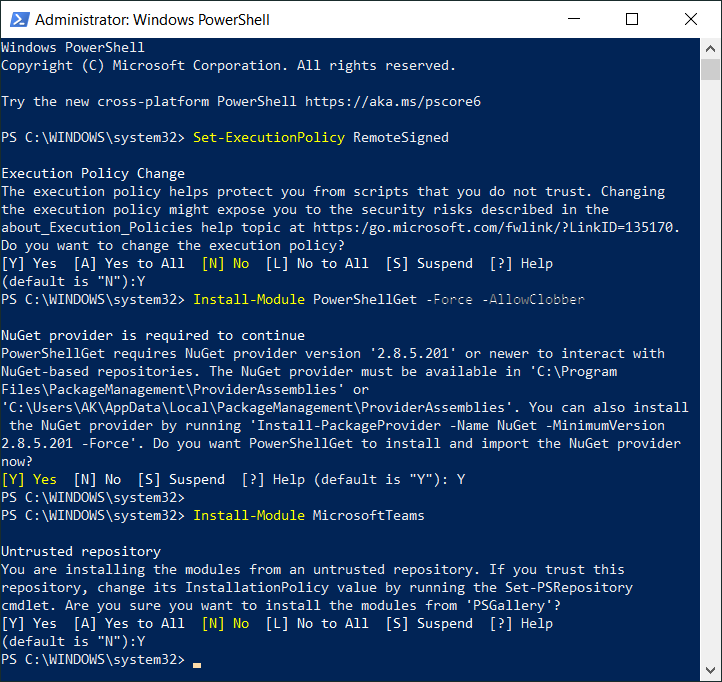
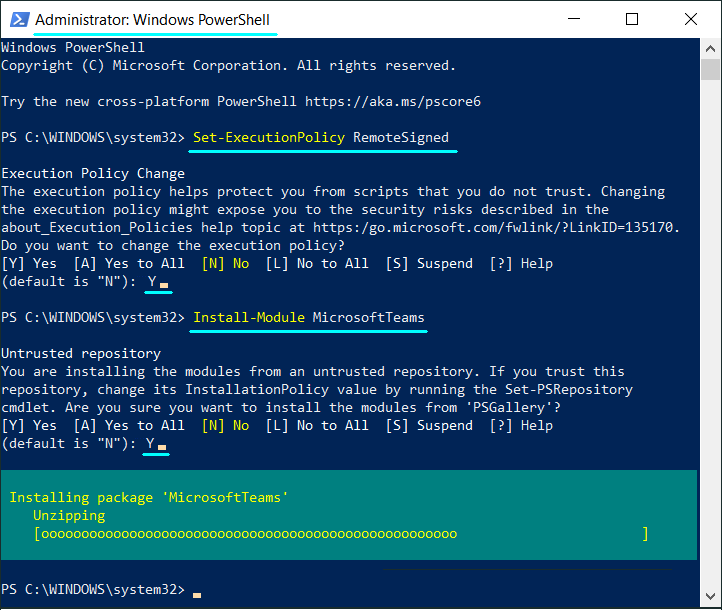
PowerShell-InstallingMicrosoftTeams

diff --git a/_posts/2020-11-24-PowerShell-bibl-MicrosoftTeams.md b/_posts/2020-11-24-PowerShell-bibl-MicrosoftTeams.md
@@ -1,0 +1,50 @@
+---
+layout: post
+title:  "Instalowanie modułu Teams PowerShell"
+date:   2020-11-24 10:00:00 +0100
+categories: Programowanie
+---
+
+Szczegółowy opis instalacji modułu Teams PowerShell na podstawie  
+<https://docs.microsoft.com/en-us/microsoftteams/teams-powershell-install>
+
+"  
+... Te instrukcje działają na platformach Azure Cloud Shell, Linux, macOS i Windows.  
+... Domyślnie Galeria programu PowerShell (PSGallery) nie jest skonfigurowana jako zaufane repozytorium ... Odpowiedz "Yes", aby kontynuować instalację...  
+"
+
+![Win_X.png]({{ site.baseurl }}/assets/img/Win_X.png "Win_X.png"){:style="float:right;width:35%;"} 
+
+### Szczegółowa instrukcja instalacji  modułu Teams PowerShell
+
+1. Uruchamiamy PowerShell w trybie administratora, np. [![WinKey]({{ site.baseurl }}/assets/img/WinKey.png "WinKey"){:style="width:18px;"}+**x**] \ `Program Windows PowerShell (Administrator)`
+![(adm)PowerShell.png]({{ site.baseurl }}/assets/img/(adm)PowerShell.png "(adm)PowerShell.png"){:style="width:59%;"} 
+
+2. [Zezwalamy](https://blog.netspi.com/15-ways-to-bypass-the-powershell-execution-policy/) na pracę skryptów PowerShell  
+<small>(jeśli nigdy wcześniej tego nie zrobiliśmy)</small>:  
+`Set-ExecutionPolicy RemoteSigned`, `Y`
+
+3. Instalujemy moduł:  
+`Install-Module MicrosoftTeams`, `Y`  
+(tu tryb administratora nie jest wymagany)
+
+![InstallModule.png]({{ site.baseurl }}/assets/img/InstallModule.png "InstallModule.png")
+
+
+### Testowanie modułu
+
+Uruchom skrypt [Connect-MicrosoftTeams.ps1]({{ site.baseurl }}/assets/files/Connect-MicrosoftTeams.zip "Connect-MicrosoftTeams.zip") w `PowerShell ISE`, logując się na swoje konto Office365. Zostaną wyświetlone Twoje zespoły i członkowie pierwszego zespołu. Można następnie testować inne [funkcje modułu](https://docs.microsoft.com/en-us/powershell/module/teams/?view=teams-ps).
+
+
+````powershell
+$ConnectTeams = Connect-MicrosoftTeams
+$ConnectTeams #: Account ... TenantDomain
+# Lista zespołów - bez parametrów się zawiesza, więc coś trzeba podać...
+$Team = Get-Team -User $ConnectTeams.Account
+$Team | Format-Table
+$Team[0].DisplayName
+# $Team[0] | Get-TeamChannel
+$Team[0] | Get-TeamUser
+Write-Host 'Wypróbuj: Get-Team -DisplayName "..." | Get-TeamChannel'
+````
+<style> pre code {font-size: smaller;} </style>
